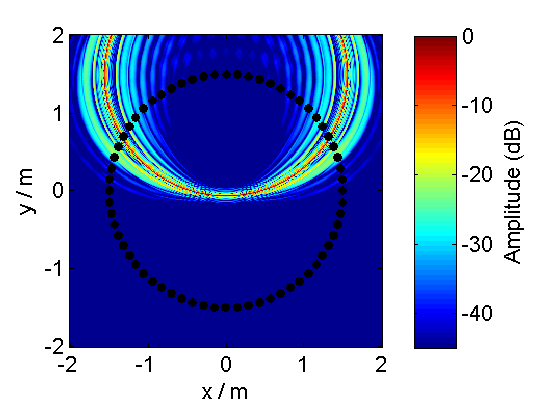
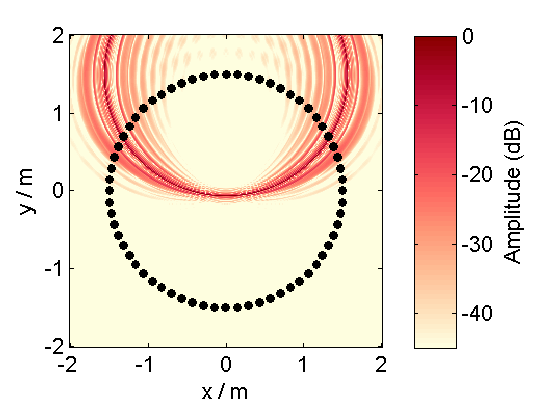
Update default dB plotting colormap

diff --git a/SFS_plotting/plot_sound_field.m b/SFS_plotting/plot_sound_field.m
@@ -134,6 +134,8 @@ if(p.usedb)
         % problems with log(0).
         P(:) = eps;
     end
+    % Change default colormap to chromajs
+    conf.plot.colormap = 'chromajs';
 end
 
 % Check if we should plot loudspeakers symbols
